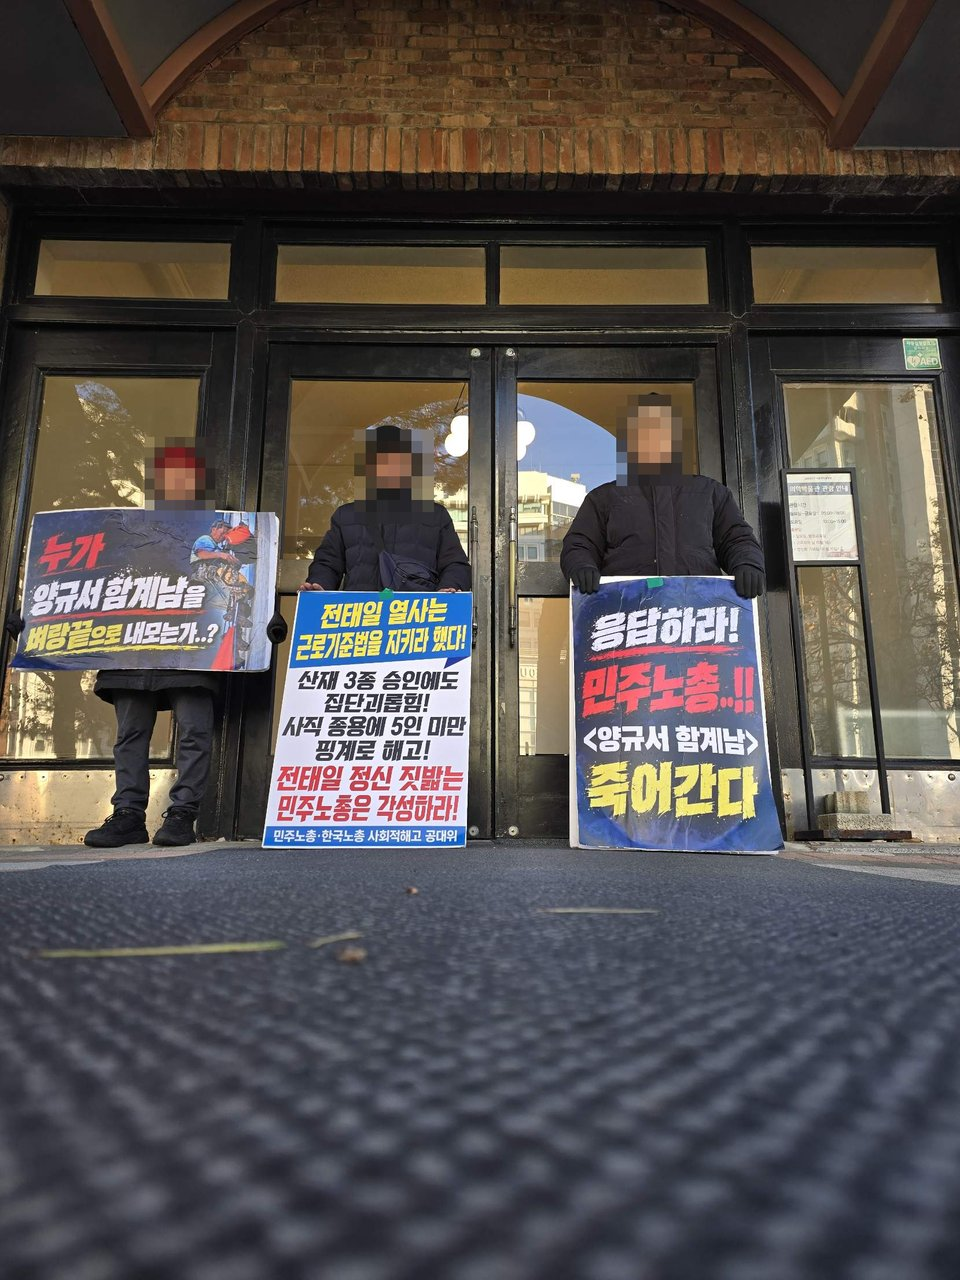
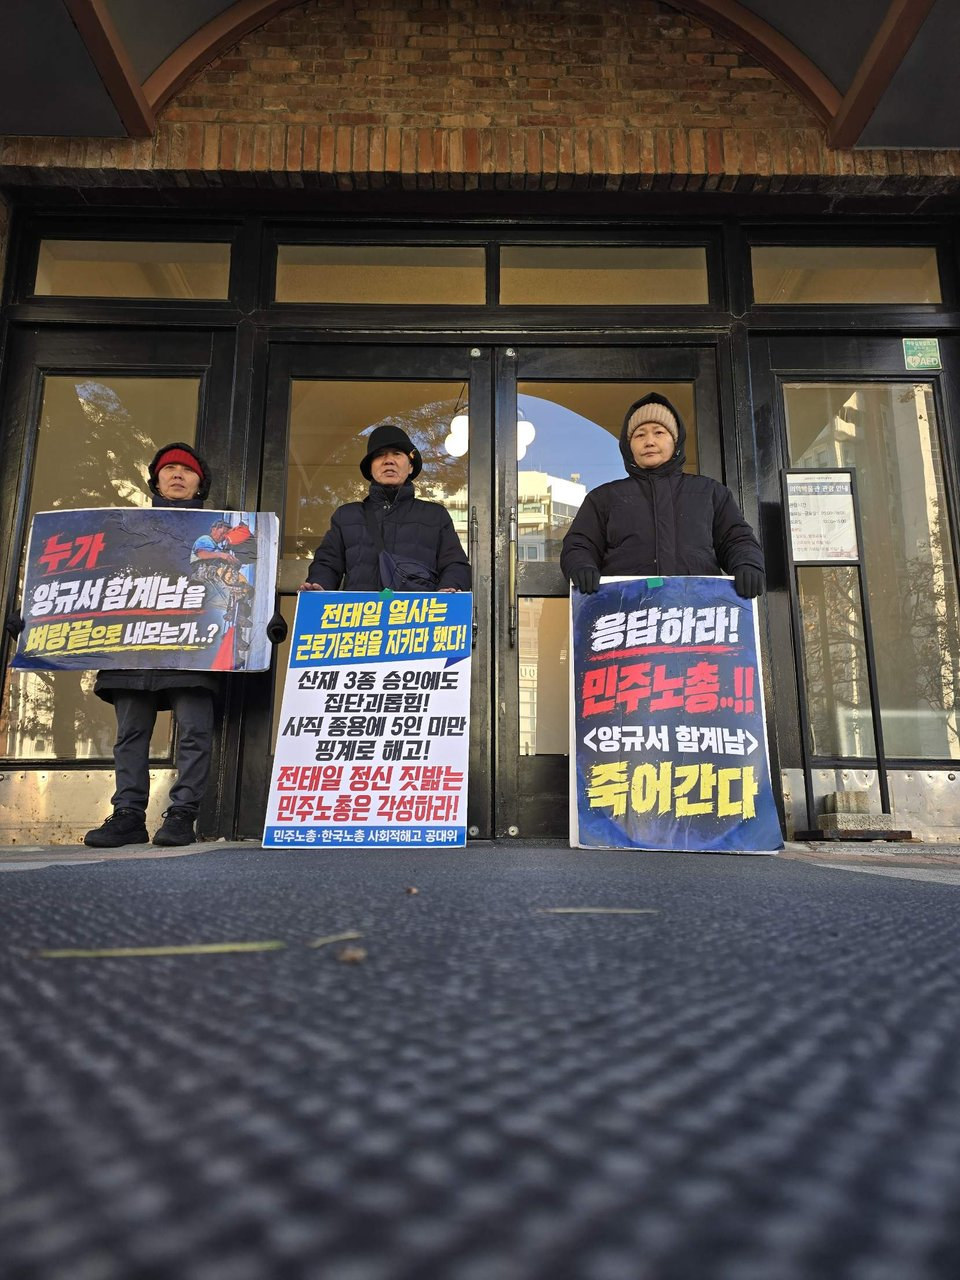
11.24 사진 1·2 얼굴 모자이크 해제(요청), 최종 업데이트 01:05
Claude-Session: https://claude.ai/code/session_01Tz8GkWFDL8twrCLq71htRW

Changed region(s): [[0.3438, 0.3125, 0.4688, 0.4062], [0.625, 0.3125, 0.7188, 0.375], [0.125, 0.3438, 0.2188, 0.4062]]

diff --git a/index.html b/index.html
@@ -7,10 +7,10 @@
 <meta property="og:site_name" content="정동 고공 외줄 밧줄농성">
 <meta property="og:title" content="이 건물 외벽에 사람이 있습니다 | 정동 고공 외줄 밧줄농성">
 <meta property="og:description" content="[11.25 소식] (11.24) 오전 8시 서울고용노동청 앞 이ㅇㅇ 님 투쟁 연대 / 오후 2시 30분~5시 서울대병원 본원 시계탑 앞 ‘노사협의회’ 선전전(김ㅇㅇ, 전태삼, 김ㅇㅇ, 함계남): 그늘지고 바람이 센 시계탑 앞에서 발을 동동 구르며 몇 시간 동안 민주노총 의료연대본부 서울지부의 부당해고를 기자회견 형식으로 끝까지 알렸습니다. 유튜버에 행동요원 역할까지 해 주신 김ㅇㅇ 동지 덕분에 든든했습니다 / 함계남 동지의 글: “저는 4년 동안 민주노총 공공운수노조 의료연대본부 서울지부에서 급여를 받고 일하는 노동자였습니다. 세 가지 산재를 인정받았고, 5인 미만으로 떠밀려 표적 해고를 당했습니다. 그리고 배우자 양규서는 상급기관의 국장으로서 이 문제를 해결하기 위해 담쟁이처럼 경향신문 벽에 매달린 지 80일이 되었습니다. 제가 무엇을 잘못했을까요? 어떻게 해결할 수 있을까요? 바람이 불 때마다 한 시간 한 시간이 가슴을 쥐어짜는 날들입니다. 마음을 다잡습니다. 적어도 민주노총에서 일하다 해고당하는 일은 되돌려 놓겠습니다. 더 이상 민주노총에서 법적 대응마저 막아 버리는 파렴치한 해고는 없게 하겠습니다. 동지들의 힘을 믿고 나아가겠습니다. 오늘 함께해 주신 많은 동지들께 감사드립니다. 투쟁 승리!” — 11월 24일 천막농성장에서 / 특종: 집단사직 종용 녹취록 공개 · 여러분이 글로벌 시민 언론사입니다">
-<meta property="og:image" content="https://yky1234x.github.io/jeongdong/share.jpg?v=202611250015">
+<meta property="og:image" content="https://yky1234x.github.io/jeongdong/share.jpg?v=202611250058">
 <meta property="og:image:width" content="1280"><meta property="og:image:height" content="720">
 <meta name="twitter:card" content="summary_large_image">
-<meta name="twitter:image" content="https://yky1234x.github.io/jeongdong/share.jpg?v=202611250015">
+<meta name="twitter:image" content="https://yky1234x.github.io/jeongdong/share.jpg?v=202611250058">
 <style>:root{color-scheme:light;padding-top:env(safe-area-inset-top,0px);padding-bottom:env(safe-area-inset-bottom,0px)}body{margin:0;font-family:system-ui,-apple-system,"Apple SD Gothic Neo","Malgun Gothic",sans-serif;font-size:14px}img{max-width:100%}[hidden]{display:none!important}</style>
 </head><body>
 <link rel="preconnect" href="https://fonts.googleapis.com">
@@ -195,7 +195,7 @@ footer strong{color:var(--fg);display:block;font-size:15px}
 <header class="band">
   <div class="wrap">
     <div class="loc" id="loc">서울 정동 경향신문사 외벽 고공 외줄 밧줄농성</div>
-    <div class="upd" data-upd>최종 업데이트 2026. 11. 25. 01:00</div>
+    <div class="upd" data-upd>최종 업데이트 2026. 11. 25. 01:05</div>
     <div class="langs" role="group" aria-label="Language">
       <button type="button" id="b-ko" data-l="ko" aria-pressed="true">한국어</button>
       <button type="button" id="b-en" data-l="en" aria-pressed="false">English</button>
